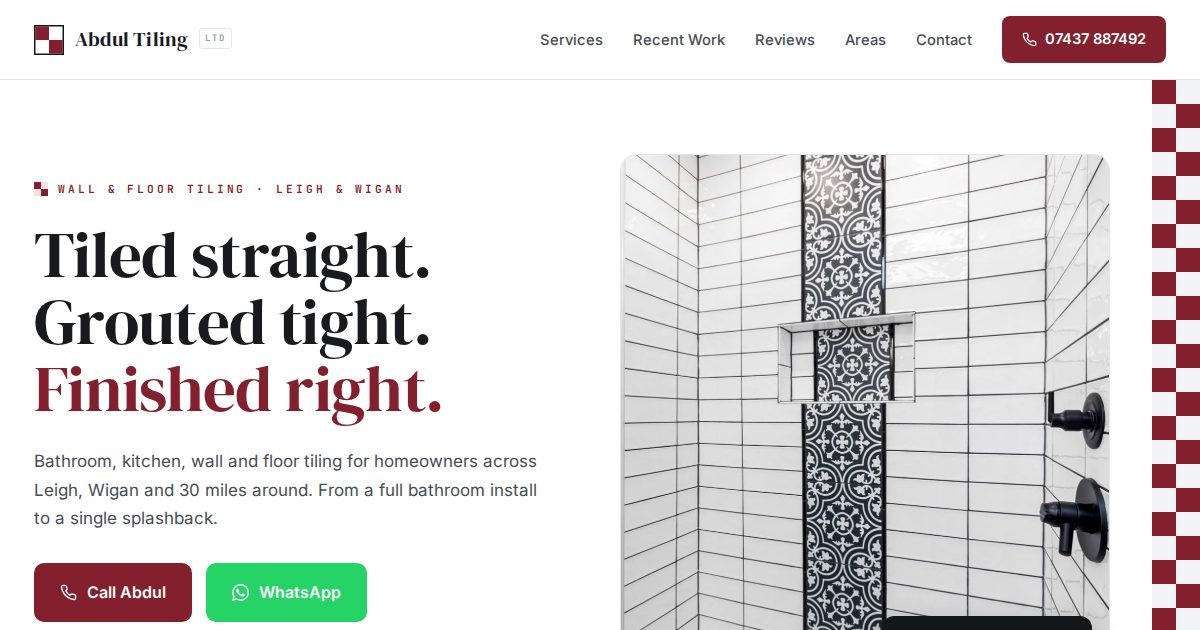
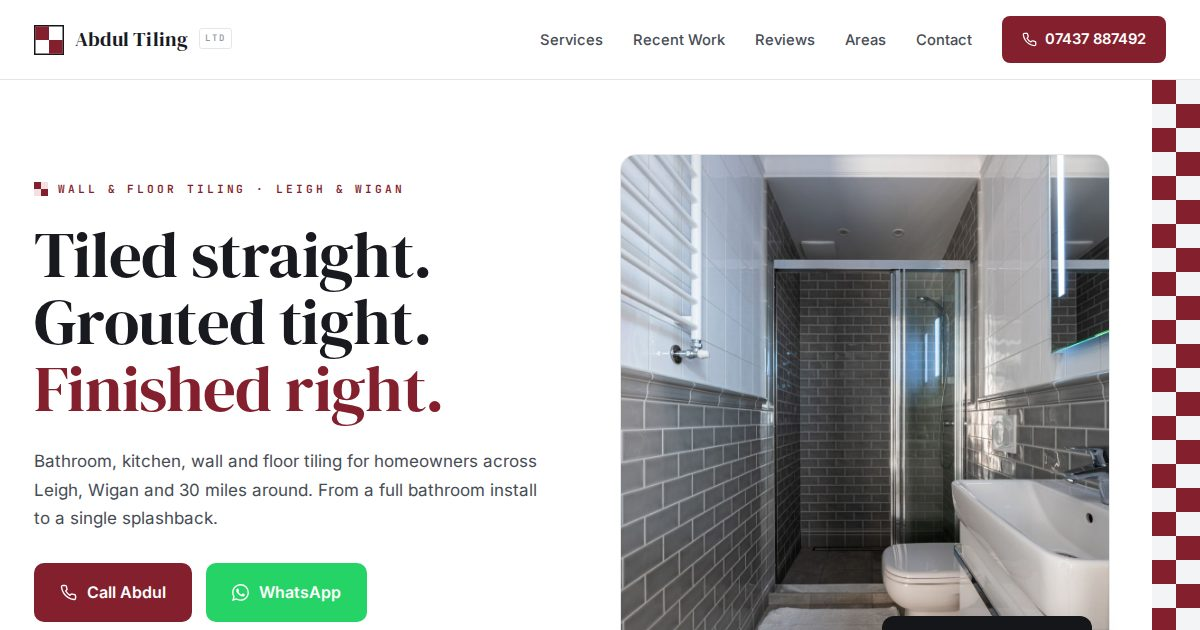
Abdul Tiling: swap hero photo to grey metro walls shot (gallery unchanged), regen og.jpg

Changed region(s): [[0.4933, 0.2413, 0.925, 1.0]]

diff --git a/abdul-tiling/index.html b/abdul-tiling/index.html
@@ -383,7 +383,7 @@ footer{background:var(--ink);color:#b9bec7}
       <div class="hero-note mono">Free quotes &middot; Leigh &amp; Wigan &middot; Walls &amp; floors</div>
     </div>
     <div class="hero-photo">
-      <div class="hp-frame"><img src="hero.jpg" alt="White metro tiled shower wall with patterned feature strip by Abdul Tiling" fetchpriority="high"></div>
+      <div class="hp-frame"><img src="work-1.jpg" alt="Grey metro tiled bathroom with walk-in shower by Abdul Tiling" fetchpriority="high"></div>
       <div class="hp-badge">
         <svg viewBox="0 0 24 24" fill="none" stroke="#fff" stroke-width="1.6" aria-hidden="true"><rect x="3" y="3" width="8" height="8" rx="1"/><rect x="13" y="3" width="8" height="8" rx="1"/><rect x="3" y="13" width="8" height="8" rx="1"/><rect x="13" y="13" width="8" height="8" rx="1"/></svg>
         <div class="hb-t">Kitchens &amp; Bathrooms<small>Walls, floors &amp; splashbacks</small></div>
